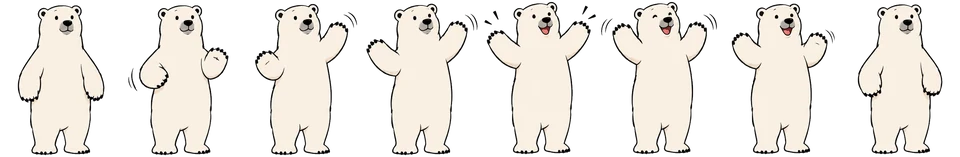
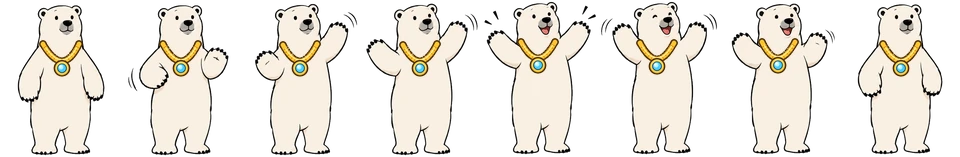
Bear wears a gold chain with an ice-blue pendant; restore the money-rain move
The chain is drawn onto every sprite frame and the pendant twinkles every
few seconds. The rain action had been dropped by the vomit rewrite
(fc14264) and is back.

Claude-Session: https://claude.ai/code/session_01CeHmJgKZfF64tcsRYisCNi

diff --git a/assistant/assistant.js b/assistant/assistant.js
@@ -204,7 +204,9 @@
   var SH = { walk: { w: 130, h: 155, ax: 67, ay: 152, n: 8 }, push: { w: 186, h: 156, ax: 93, ay: 154, n: 12 },
     happy: { w: 120, h: 157, ax: 61, ay: 155, n: 8 }, hello: { w: 173, h: 161, ax: 91, ay: 159, n: 11 }, fall: { w: 128, h: 153, ax: 65, ay: 151, n: 12 }, rain: { w: 166, h: 216, ax: 83, ay: 214, n: 15 } };
   var STAND = 150;
-  Object.keys(SH).forEach(function (k) { var im = new Image(); im.decoding = "async"; im.src = BASE + "bear-" + k + ".webp"; SH[k].img = im; });
+  Object.keys(SH).forEach(function (k) { var im = new Image(); im.decoding = "async"; im.src = BASE + "bear-" + k + ".webp?v=chain1"; SH[k].img = im; });
+  var PEND = {"happy":[[62.0,68.2],[61.0,68.2],[60.0,68.2],[60.0,68.2],[58.0,65.2],[57.0,66.2],[58.0,65.2],[61.0,68.2]],"hello":[[93.0,73.2],[94.0,71.2],[92.0,72.2],[111.0,97.2],[104.0,71.2],[99.0,63.2],[96.0,67.2],[89.0,83.2],[93.0,74.2],[91.0,75.2],[90.0,73.2]],"walk":[[74.0,65.2],[76.0,65.2],[79.0,71.2],[80.0,74.2],[82.0,74.2],[75.0,69.2],[77.0,69.2],[77.0,69.2]],"push":[[91.0,71.2],[102.0,69.2],[105.0,81.2],[104.0,91.2],[113.0,88.2],[119.0,88.2],[120.0,88.2],[120.0,88.2],[106.0,83.2],[98.0,78.2],[97.0,71.2],[97.0,70.2]],"fall":[[65.0,78.2],[62.0,77.2],[63.0,77.2],[67.0,77.2],[59.0,78.2],null,null,null,null,[70.0,94.2],[66.0,59.2],[64.0,57.2]],"rain":[[84.0,132.2],[86.0,132.2],[84.0,132.2],[84.0,132.2],[84.0,132.2],[84.0,132.2],[84.0,131.2],[84.0,139.2],[86.0,137.2],[84.0,136.2],[92.0,123.2],[82.0,129.2],[84.0,127.2],[84.0,136.2],[84.0,141.2]]};   // where the chain's pendant sits in every frame (for the sparkle)
+
   var PI = Math.PI, TAU = 2 * PI;
   function frames(list, fps) { return list.map(function (f) { return { f: f, d: 1 / fps }; }); }
   function at(steps, u) { var t = 0; for (var i = 0; i < steps.length; i++) { t += steps[i].d; if (u < t) return steps[i]; } return null; }
@@ -274,6 +276,19 @@
       var w = at(WAVE, v - POUR - .75); if (w) return { sheet: "happy", f: w.f };
       if (v < 5.6) return { sheet: "happy", f: 0 };
       B.wob = .5; return null;
+    },
+    rain: function (u, B, A) {   // sunglasses drop on, grabs cash and makes it rain (3 throws), glasses pop off again
+      if (!A.steps) {
+        var st = [[0, .1], [1, .1], [2, .1], [3, .1], [4, .18], [5, .3], [6, .45]];
+        for (var n = 0; n < 3; n++) st = st.concat([[7, .12], [8, .1], [9, .1], [10, .1, 1], [11, .12], [12, .12], [11, .12], [12, .12], [13, .16], [14, .28]]);
+        st = st.concat([[5, .35], [2, .08], [1, .08], [0, .12]]);
+        A.steps = st.map(function (x) { return { f: x[0], d: x[1], throwIt: x[2] }; }); A.done = -1;
+      }
+      var t = 0, i = 0; for (; i < A.steps.length; i++) { t += A.steps[i].d; if (u < t) break; }
+      if (i >= A.steps.length) { B.wob = .5; return null; }
+      var s = A.steps[i];
+      if (s.throwIt && A.done < i) { A.done = i; fxBills(B); B.wob = .5; }
+      return { sheet: "rain", f: s.f, flip: false };
     },
     crash: function (u, B) {   // hits the ground after a big fall: belly flop, lies there, gets up
       var s = at(frames([5, 6, 7], 7).concat(frames([8, 9, 10, 11], 4.5)), u); return s && { sheet: "fall", f: s.f }; },
@@ -526,6 +541,13 @@
     if (P.f2 !== undefined && P.f2 !== P.f) { draw1(S, P.f, main * (1 - P.mix)); draw1(S, P.f2, main * P.mix); }
     else draw1(S, P.f, main);
     c.globalAlpha = 1;
+    var pd = PEND[P.sheet] && PEND[P.sheet][P.f], gl = ((now + 1.1) % 3.2) / .55;       // bling: the pendant twinkles
+    if (pd && gl < 1 && !reduce) {
+      var gx = (pd[0] - S.ax) * k - 2.2 * k, gy = (pd[1] - S.ay) * k - 2.4 * k, gr = 10 * k * Math.sin(gl * PI);
+      c.save(); c.translate(gx, gy); c.rotate(gl * 1.4); c.fillStyle = "#ffffff"; c.beginPath();
+      for (var gi = 0; gi < 8; gi++) { var ga = gi * PI / 4, gd = gi % 2 ? gr * .26 : gr; c.lineTo(Math.cos(ga) * gd, Math.sin(ga) * gd); }
+      c.closePath(); c.fill(); c.restore();
+    }
   }
   var fxPrev = 0;
   function bearLoop() {

diff --git a/index.html b/index.html
@@ -307,7 +307,7 @@ html.iu-lite .glass,html.iu-lite .stats,html.iu-lite .lcard,html.iu-lite .resour
 <script src="learn.js?v=20261108b" defer></script>
 <script src="hero.js?v=20261109e" defer></script>
 <script src="liquid.js?v=20261108e" defer></script>
-<script src="assistant/assistant.js?v=20261113o" defer></script>
+<script src="assistant/assistant.js?v=20261114b" defer></script>
 <!-- Cloudflare Web Analytics --><script type='module' src='https://static.cloudflareinsights.com/beacon.min.js' data-cf-beacon='{"token": "4430f3cf35574ab6ad9424fcfbec8008"}'></script><!-- End Cloudflare Web Analytics -->
 </body>
 </html>
